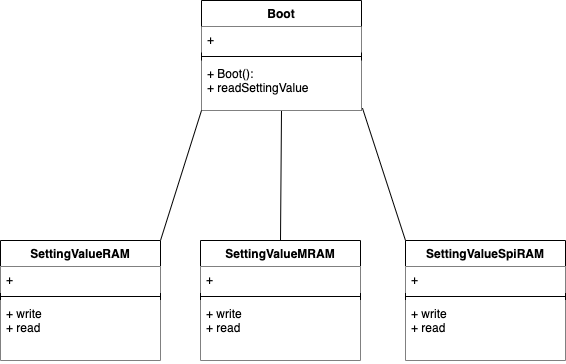
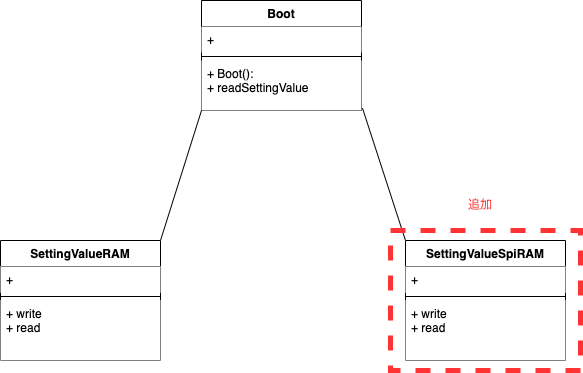
説明のシナリオ秋雨生。図を説明のシナリオに沿った内容に変更

diff --git a/4_open_closed_principle/slide.md b/4_open_closed_principle/slide.md
@@ -224,8 +224,8 @@ _footer: ""
 ---
 ![bg right width:620px height:640px](img/前回設定値の反映classNG.png)
 説明のシナリオ：
-* 現在はBootクラスとSettingValueRAMクラスが実装できている状態とする。
-* 仕様変更（将来的にRAMが生産中止になることがわかった）でSPIのRAMに変更することになった、ということにします。
+* 現在はBootクラスとSettingValueRAMクラスが実装済みとする。
+* 仕様変更（将来的にRAMが生産中止になることがわかった）で次ロットからSPIのRAMに変更することになった、というストーリーとします。
 
 ---
 GitHub URL: [no_dip_principle](https://github.com/grace2riku/solid_principle_example/tree/main/4_open_closed_principle/no_dip_principle)
